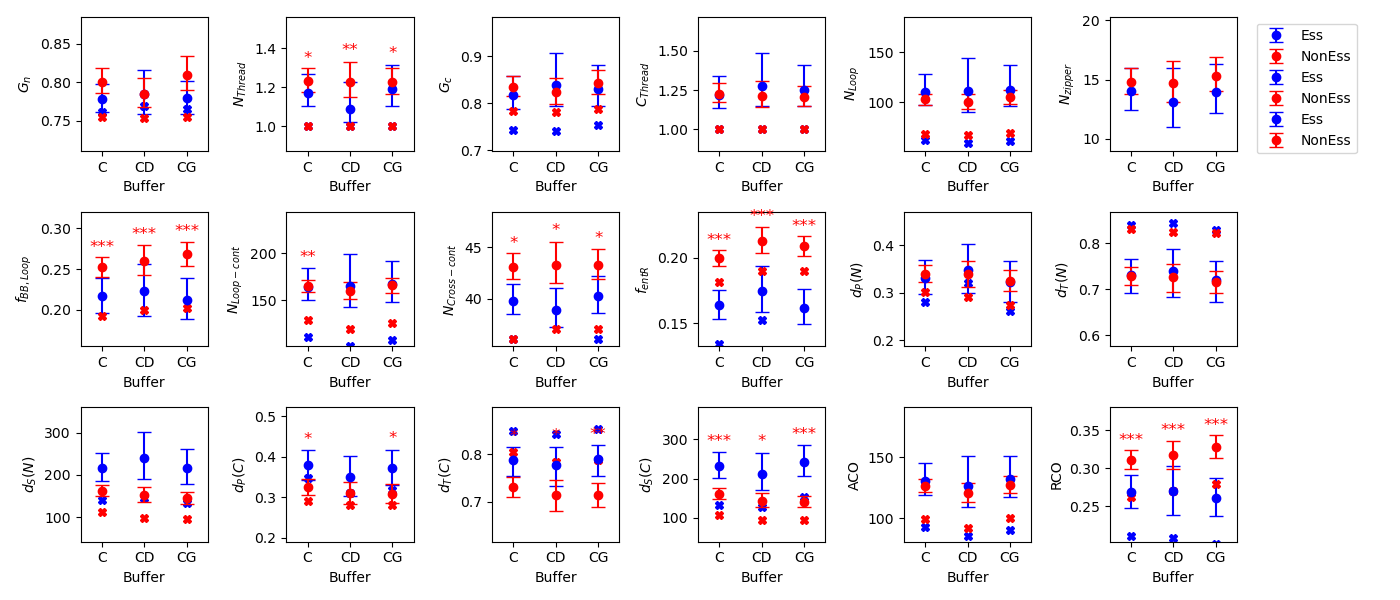
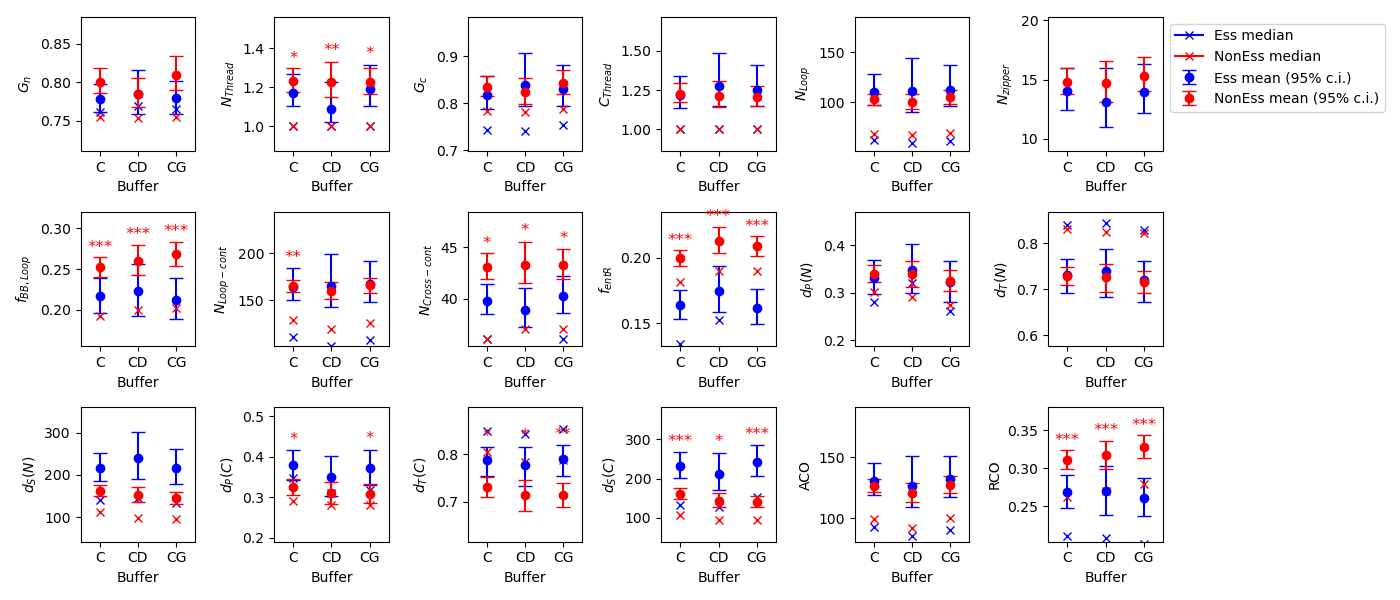
fixed plotting error in comparison

diff --git a/Entanglement_Topological_Complexity_and_Discrimination/src/data/Plot_complexity_metrics.py b/Entanglement_Topological_Complexity_and_Discrimination/src/data/Plot_complexity_metrics.py
@@ -118,8 +118,13 @@ class DataAnalysis:
                         color = 'blue'
                     if label == 'NonEss':
                         color = 'red'
-                    axes[i].errorbar(buff_i, stat, yerr=[[stat - stat_lb], [stat_ub - stat]], fmt='o', capsize=5, color=color, label=label)
-                    axes[i].plot(buff_i, median, color=color, marker='X')
+                    #only add the label once
+                    if buff_i == 0:
+                        axes[i].errorbar(buff_i, stat, yerr=[[stat - stat_lb], [stat_ub - stat]], fmt='o', capsize=5, color=color, label=f'{label} mean (95% c.i.)')
+                        axes[i].plot(buff_i, median, color=color, marker='x', label=f'{label} median')
+                    else:
+                        axes[i].errorbar(buff_i, stat, yerr=[[stat - stat_lb], [stat_ub - stat]], fmt='o', capsize=5, color=color)
+                        axes[i].plot(buff_i, median, color=color, marker='x')
                     # Set title and labels
                     #axes[i].set_title(metric)
                     axes[i].set_xlabel(f'Buffer')
@@ -148,7 +153,7 @@ class DataAnalysis:
                 if annotation:
                     axes[i].text(buff_i, highest_ub, annotation, ha='center', va='bottom', fontsize=12, color='red')
 
-        axes[5].legend(loc='upper right', bbox_to_anchor=(2, 1))
+        axes[5].legend(loc='upper left', bbox_to_anchor=(1, 1))
 
         plt.tight_layout()
         #plt.show()
